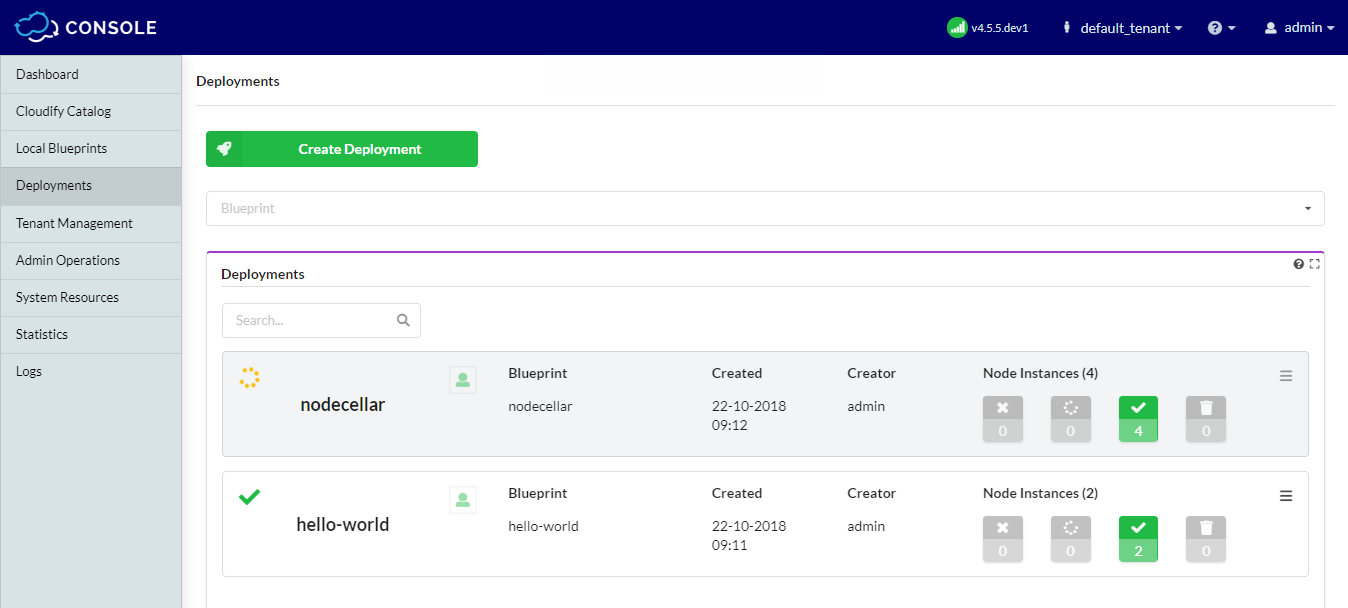
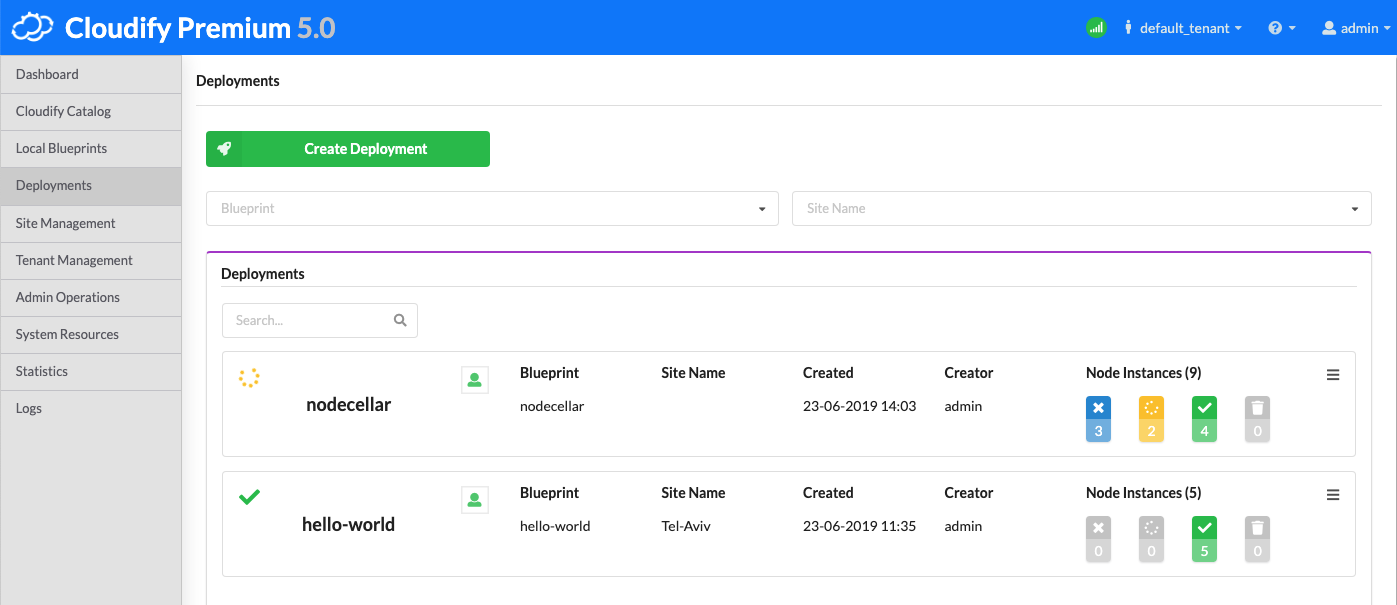
Add sites to the UI docs
* Add documentaion for site management page

* Add documentaion for sites widget

* Update deployments page documentaion

* Update filter widget documentaion

diff --git a/content/working_with/console/deployments-page.md b/content/working_with/console/deployments-page.md
@@ -17,12 +17,14 @@ and enables you to create, update and delete deployments and execute workflows.
 
 You can list only deployments created basing on specific blueprint by selecting 
 the blueprint from Resource Filter widget below Create Deployment button. 
+In the same way, you can list only deployments assigned to the same site.
 
 You can also use **Search** input inside Deployments widget to filter deployments list.
 
 ![Deployments Page]( /images/ui/deploymentsPage/deployments-page.png )
 
-Each deployment in the list includes details about the attached blueprint, when the deployment was created (if it was updated icon indicating that will be shown near creation date) and the nodes on which it is deployed. 
+Each deployment in the list includes details about the attached blueprint, when the deployment was created (if it was updated icon indicating that will be shown near creation date),
+which site it is assigned to and the nodes on which it is deployed.
 
 You can also quickly check status and logs of the last workflow executed on the deployment by hovering over the status icon in the top left corner of deployment. Depending on the type of the execution there are additional action buttons there.
 
@@ -51,9 +53,10 @@ The status of the deployments' node instances is indicated as follows:
 
 1. Click **Create Deployment** button.
 2. Enter a name for the deployment.
-3. Select a blueprint from the dropdown list.
-4. Specify the deployment inputs for the blueprint or use the defaults.
-5. Click **Deploy**.
+3. Optional, specify a site to which this deployment will be assigned.
+4. Select a blueprint from the dropdown list.
+5. Specify the deployment inputs for the blueprint or use the defaults.
+6. Click **Deploy**.
 
 The deployment is added to the list.
 
@@ -104,3 +107,12 @@ For more information about creating custom workflows, [click here]({{< relref "w
 2. When prompted to verify that you want to remove the deployment, click **Yes**.
 
 
+### Setting a Site
+
+![Set Site]( /images/ui/deploymentsPage/set-site.png )
+
+1. Click **Set Site**.
+2. Select the new site for the deployment.
+3. Click **Update**.
+
+For detaching the current site, leave the `Site name` input empty and toggle the `Detach` button.

diff --git a/content/working_with/console/site-management-page.md b/content/working_with/console/site-management-page.md
@@ -1,0 +1,59 @@
+---
+layout: bt_wiki
+title: Site Management Page
+category: Cloudify Console
+draft: false
+weight: 140
+aliases: /manager_webui/tenant-management-page/
+---
+
+The default `Site Management` page displays the Sites widget which provides a list of all sites
+and enables you to create, update and delete sites.
+You can use **Search** input inside Sites widget to filter the sites list.
+
+![Site Management Page]( /images/ui/sitesPage/sites-page.png )
+
+
+Each site in the list includes the following:
+
+* **Name**
+* **Visibility level** Represented by the icon next to the name. Permitted users (the sites’s creator, sys admins or tenant managers of the current tenant) can set the site’s visibility by clicking on this icon.
+* **Location** The location of the site, represented by latitude and longitude.
+* **Creation time**
+* **Creator**
+* **Tenant** The name of the tenant the site belongs to (if the site is global, it might belong to a tenant different than the current one).
+* **Number of deployments assigned to the site**
+
+
+The right column of the table allows permitted users to edit the site or delete it.
+Also, using the “Create” button on the right top corner of the widget, you will be able to create new sites.
+
+
+## Creating a Site
+
+![Create Site]( /images/ui/sitesPage/create-site.png )
+
+1. Click **Create** button.
+2. Enter a name for the site.
+3. Optional, choose the visibility level (the icon of the green man), default: tenant.
+4. Optional, enter the location of the site. Expected format: latitude, longitude such as 32.071072, 34.787274.
+5. Click **Create**.
+
+The site is added to the list.
+
+
+
+### Updating a Site
+
+![Update Site]( /images/ui/sitesPage/update-site.png )
+
+1. Click **Update site**.
+2. Enter a new name or location for the site.
+3. Click **Update**.
+
+
+
+### Deleting a Site
+
+1. Click **Delete site**.
+2. When prompted to verify that you want to remove the site, click **Yes**.

diff --git a/content/working_with/console/widgets/sites.md b/content/working_with/console/widgets/sites.md
@@ -1,0 +1,25 @@
+---
+layout: bt_wiki
+title: Sites
+category: Cloudify Console
+draft: false
+---
+Displays the list of sites and enables their management.
+The widget provides the following information:
+
+* **Name**
+* **Visibility level** Represented by the icon next to the name. Permitted users (the sites’s creator, sys admins or tenant managers of the current tenant) can set the site’s visibility by clicking on this icon.
+* **Location** The location of the site, represented by latitude and longitude.
+* **Creation time**
+* **Creator**
+* **Tenant** The name of the tenant the site belongs to (if the site is global, it might belong to a tenant different than the current one).
+* **Number of deployments assigned to the site**
+
+You can use the **Search** input to filter the sites list.
+The right column of the table allows permitted users to edit the site or delete it.
+Also, using the “Create” button on the right top corner of the widget, you will be able to create new sites.
+
+![manage-users]( /images/ui/widgets/sites.png )
+
+#### Widget Settings 
+* `Refresh time interval` - The time interval in which the widget’s data will be refreshed, in seconds. Default: 30 seconds.

diff --git a/content/working_with/console/widgets/filter.md b/content/working_with/console/widgets/filter.md
@@ -6,7 +6,7 @@ draft: false
 ---
 
 This widget provides the ability to filter the data presented in other widgets on the page according to a specific resource. 
-By default, the widget allows filtering by blueprint, deployment and execution, and you can also add fields to filter by node or node instance, by configuring the widget’s settings. 
+By default, the widget allows filtering by blueprint, deployment and execution, and you can also add fields to filter by node, node instance and more, by configuring the widget’s settings.
 
 ![resource-filter]( /images/ui/widgets/resource_filter.png )
 
@@ -19,4 +19,5 @@ By default, the widget allows filtering by blueprint, deployment and execution, 
 * `Show node filter` - Defines whether to expose filtering by Node. Default: Off
 * `Show node instance filter` - Defines whether to expose filtering by Node Instances. Default: Off
 * `Show execution status filter` - Defines whether to expose filtering by Execution Status. Default: Off
+* `Show site name filter` - Defines whether to expose filtering by Site Name. Default: Off
 * `Allow multiple selection` - Allows selecting more than one resource in the filter. Default: Off
